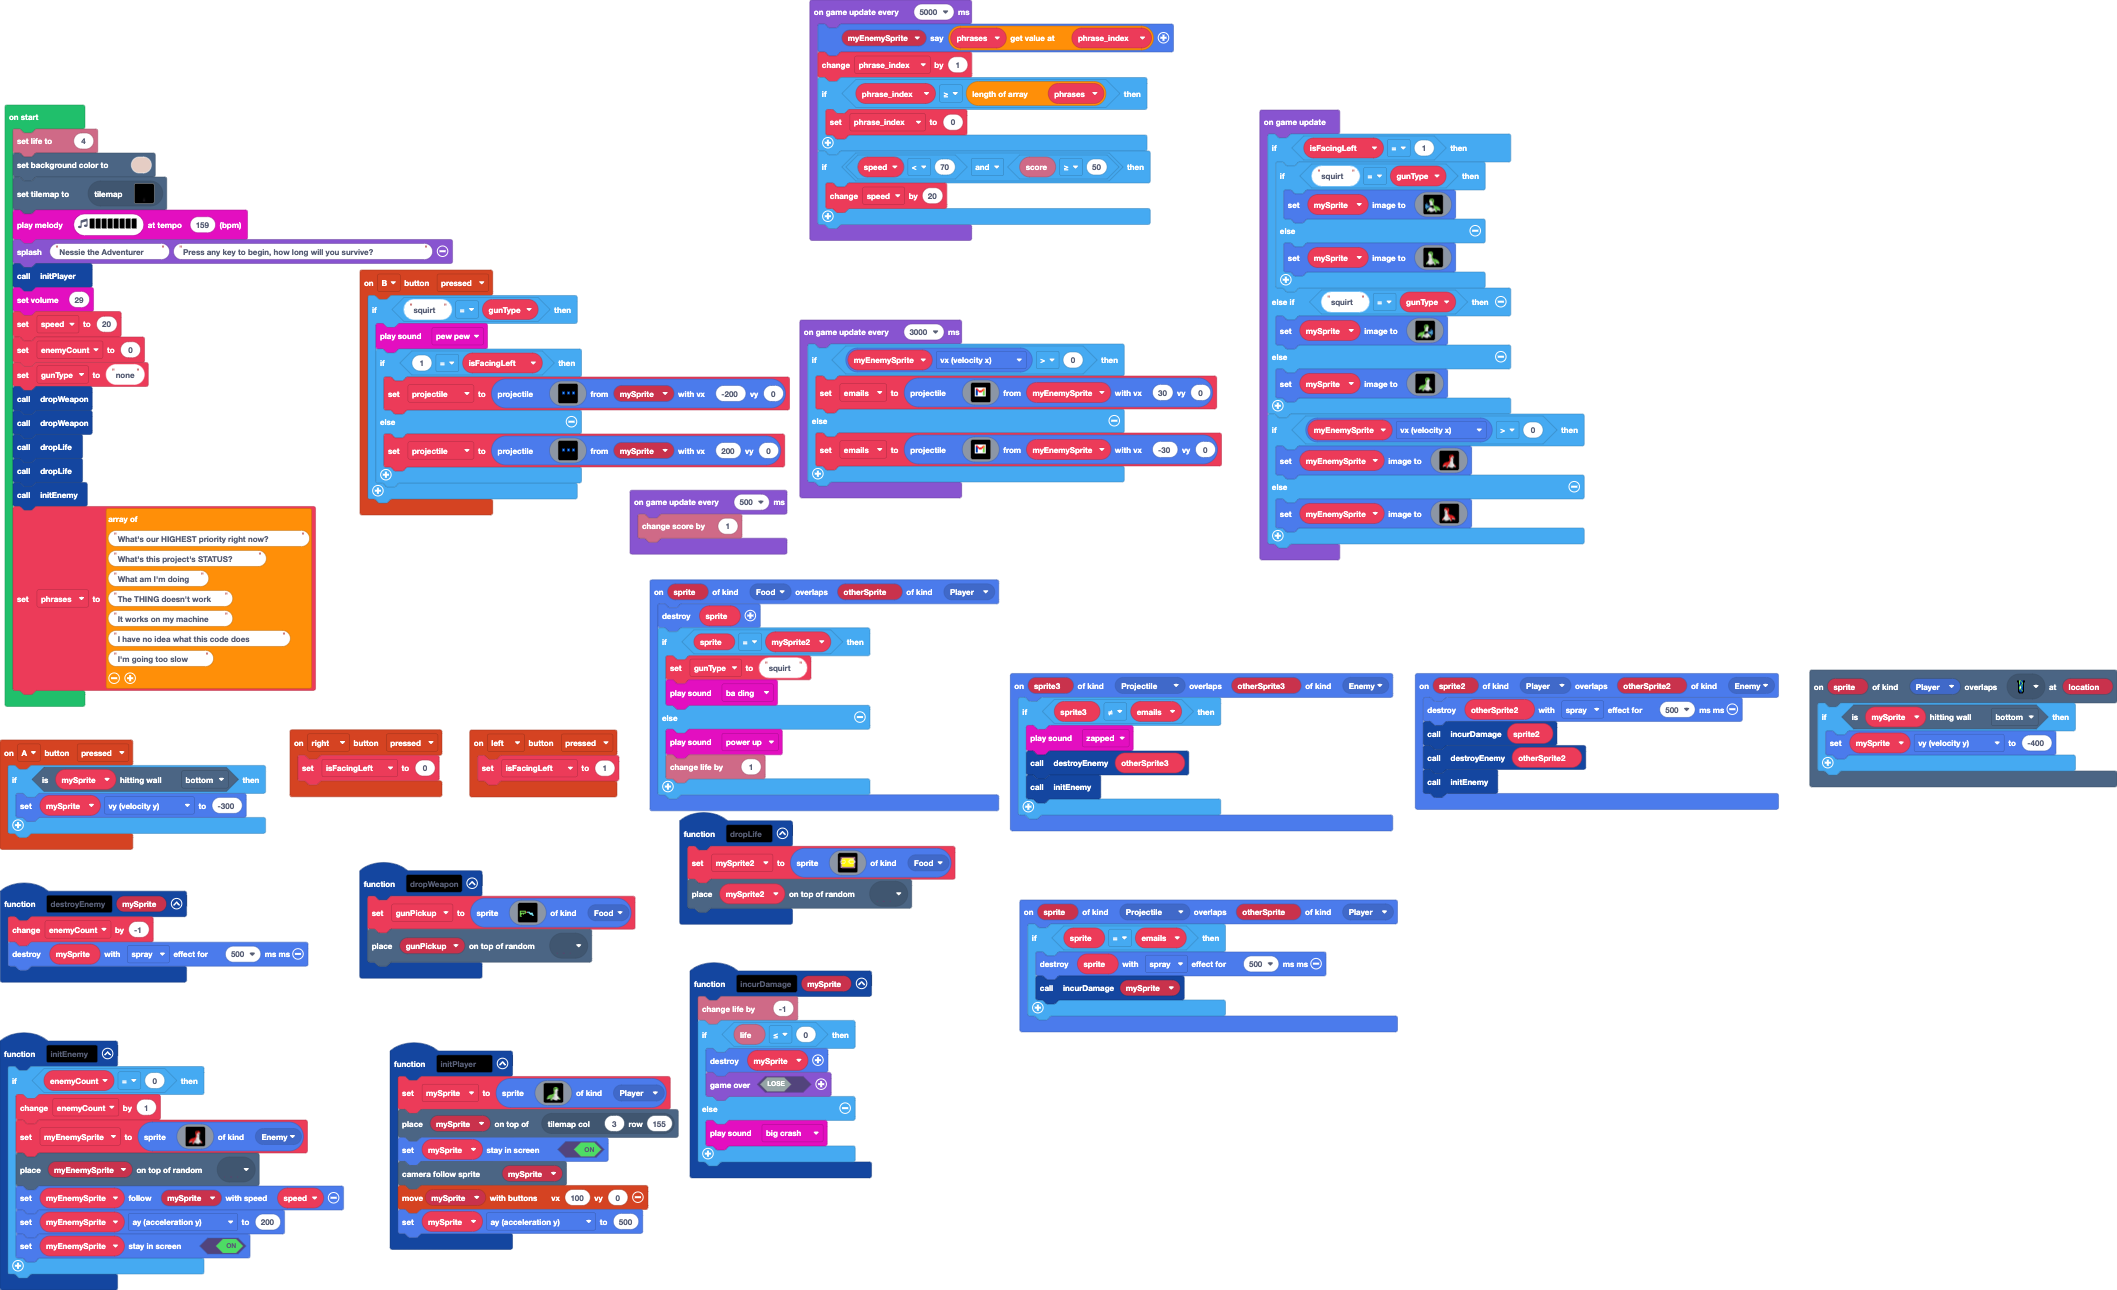
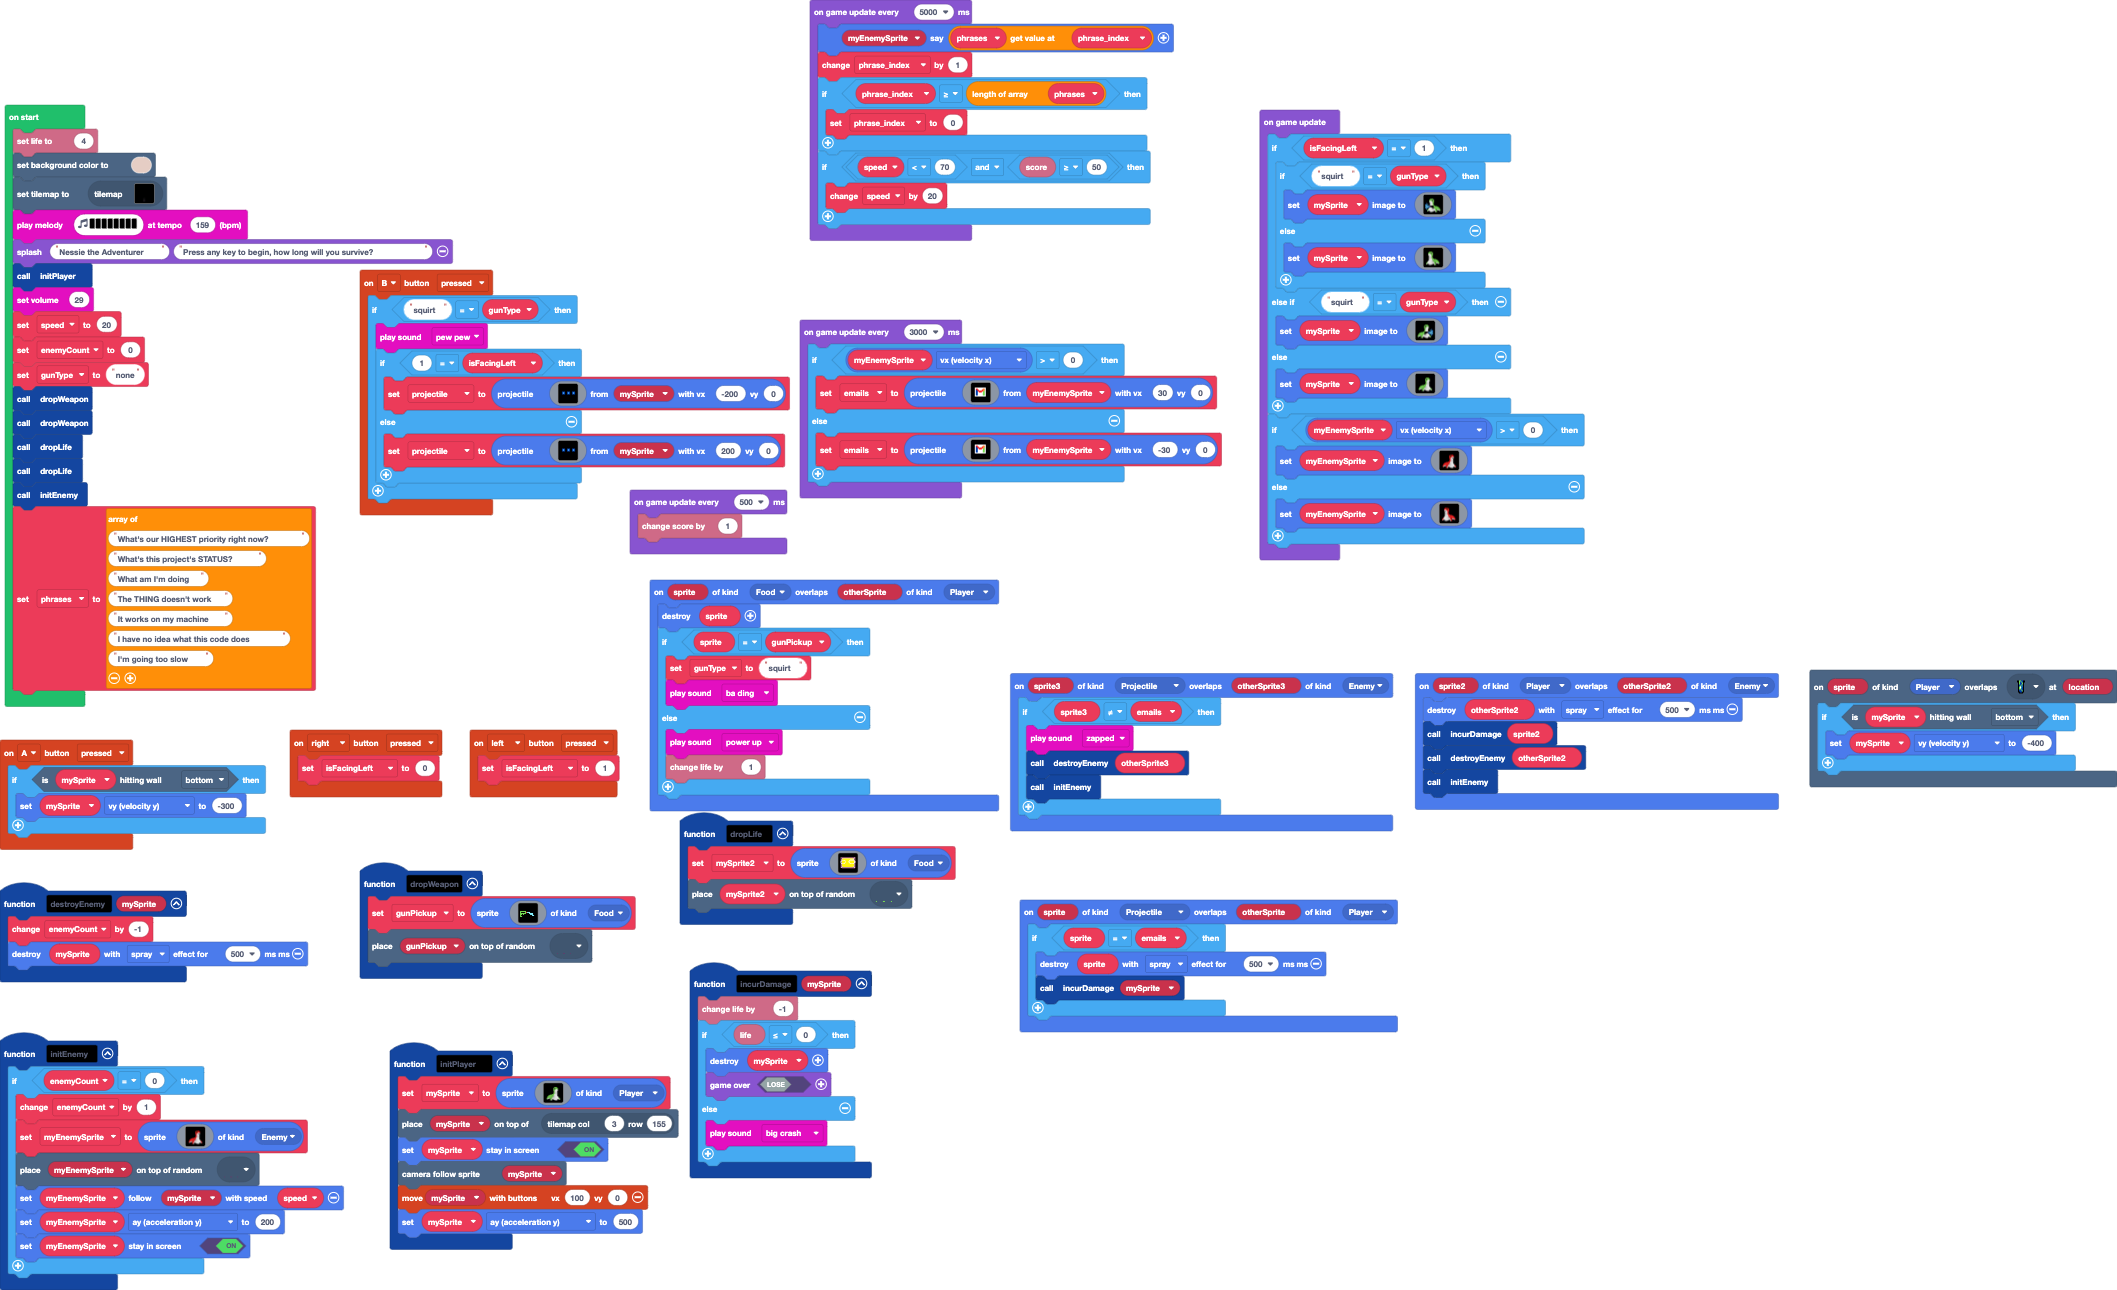
Update main.blocks, main.ts, tilemap.g.jres, tilemap.g.ts

diff --git a/tilemap.g.ts b/tilemap.g.ts
@@ -14,11 +14,13 @@ namespace myTiles {
     export const tile4 = image.ofBuffer(hex``);
     //% fixedInstance jres blockIdentity=images._tile
     export const tile6 = image.ofBuffer(hex``);
+    //% fixedInstance jres blockIdentity=images._tile
+    export const tile7 = image.ofBuffer(hex``);
 
     helpers._registerFactory("tilemap", function(name: string) {
         switch(helpers.stringTrim(name)) {
             case "level1":
[2 lines of base64/hex data omitted]
 ................
 ................
 ................
@@ -162,8 +164,8 @@ namespace myTiles {
 .....2222.......
 ...............2
 ................
-222...........2.
 ..............2.
+..222.........2.
 .......2222...2.
 ................
 22..............
@@ -171,15 +173,15 @@ namespace myTiles {
 ................
 ..........22222.
 ................
-................
 22222...........
 ................
 ................
-........22222...
+................
+.......22222....
 ................
 ................
 2222222222222222
-`, [myTiles.transparency16,myTiles.tile1,myTiles.tile3,myTiles.tile5,myTiles.tile4,myTiles.tile6], TileScale.Sixteen);
+`, [myTiles.transparency16,myTiles.tile1,myTiles.tile3,myTiles.tile5,myTiles.tile4,myTiles.tile6,myTiles.tile7], TileScale.Sixteen);
         }
         return null;
     })
@@ -199,6 +201,8 @@ namespace myTiles {
             case "tile4":return tile4;
             case "myTile0":
             case "tile6":return tile6;
+            case "extraLife":
+            case "tile7":return tile7;
         }
         return null;
     })

diff --git a/main.ts b/main.ts
@@ -62,7 +62,7 @@ sprites.onOverlap(SpriteKind.Player, SpriteKind.Enemy, function (sprite2, otherS
 })
 sprites.onOverlap(SpriteKind.Food, SpriteKind.Player, function (sprite, otherSprite) {
     sprite.destroy()
-    if (sprite == mySprite2) {
+    if (sprite == gunPickup) {
         gunType = "squirt"
         music.baDing.play()
     } else {
@@ -83,7 +83,7 @@ function destroyEnemy (mySprite: Sprite) {
 }
 function dropLife () {
     mySprite2 = sprites.create(assets.image`chip`, SpriteKind.Food)
-    tiles.placeOnRandomTile(mySprite2, assets.tile`gunPickupTile`)
+    tiles.placeOnRandomTile(mySprite2, assets.tile`extraLife`)
 }
 sprites.onOverlap(SpriteKind.Projectile, SpriteKind.Enemy, function (sprite3, otherSprite3) {
     if (sprite3 != emails) {
@@ -93,8 +93,8 @@ sprites.onOverlap(SpriteKind.Projectile, SpriteKind.Enemy, function (sprite3, ot
     }
 })
 let phrase_index = 0
-let gunPickup: Sprite = null
 let mySprite2: Sprite = null
+let gunPickup: Sprite = null
 let emails: Sprite = null
 let projectile: Sprite = null
 let isFacingLeft = 0
@@ -105,7 +105,6 @@ let enemyCount = 0
 let speed = 0
 info.setLife(4)
 scene.setBackgroundColor(13)
-scene.setBackgroundImage(assets.image`myImage7`)
 tiles.setCurrentTilemap(tilemap`level1`)
 music.playMelody("A F A B C5 G A G ", 159)
 game.splash("Nessie the Adventurer", "Press any key to begin, how long will you survive?")
